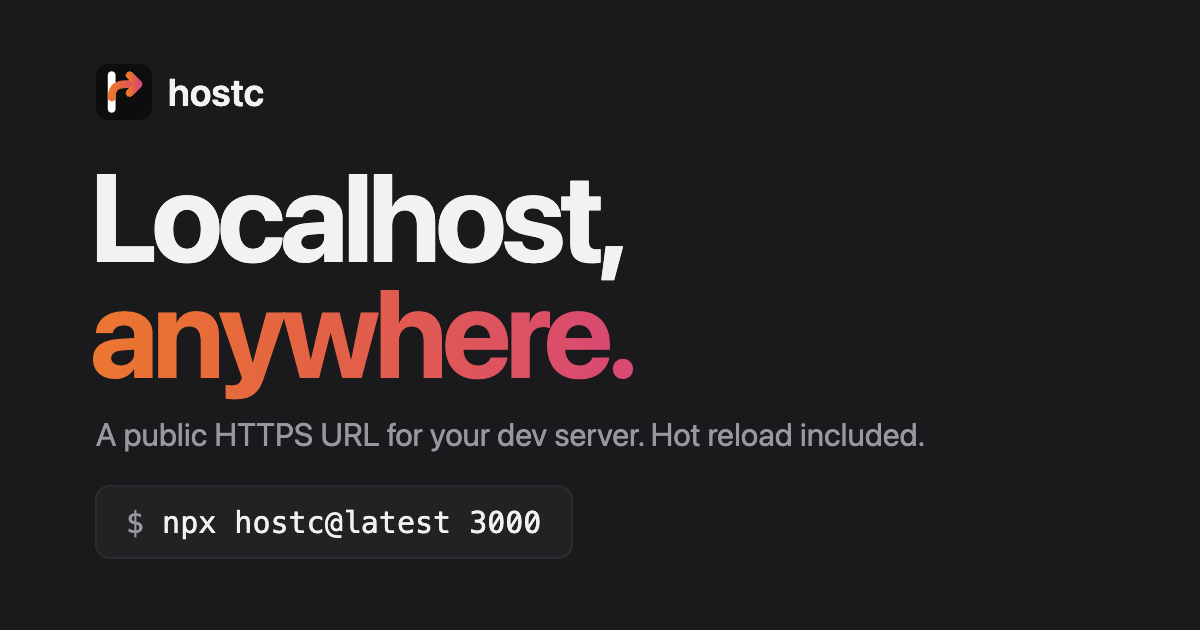
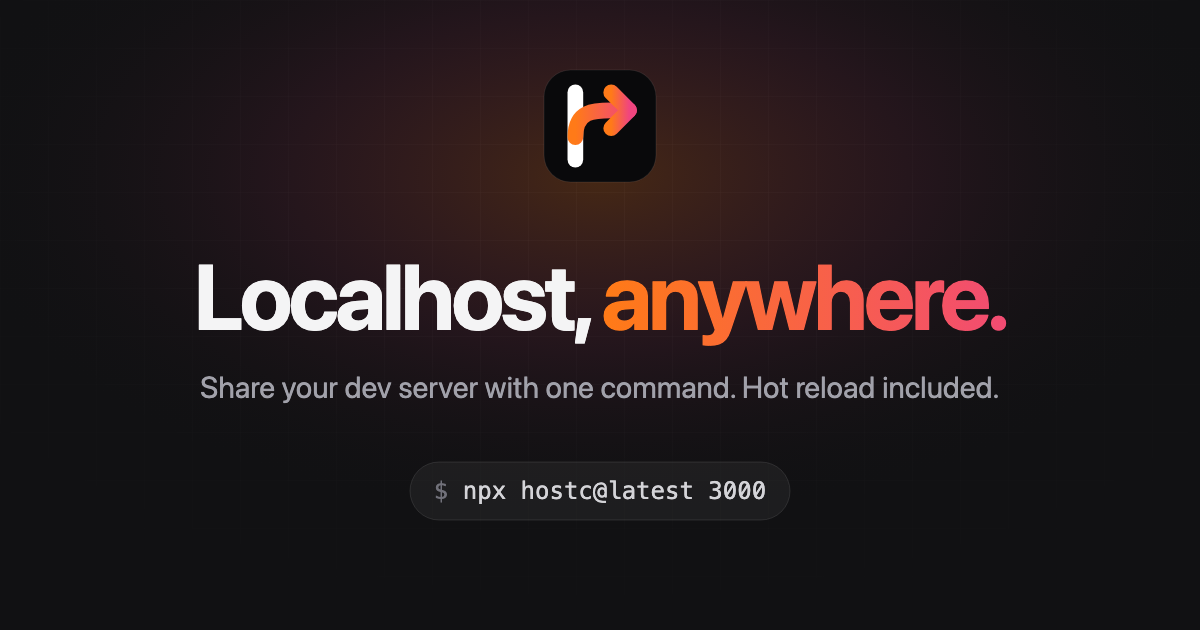
Use the centered design for the social card

diff --git a/apps/web/public/index.html b/apps/web/public/index.html
@@ -22,7 +22,10 @@
 		<meta property="og:image" content="https://hostc.dev/og-image.png" />
 		<meta property="og:image:width" content="1200" />
 		<meta property="og:image:height" content="630" />
-		<meta property="og:image:alt" content="hostc: Localhost, anywhere. npx hostc@latest 3000" />
+		<meta
+			property="og:image:alt"
+			content="hostc: Localhost, anywhere. Share your dev server with one command. Hot reload included."
+		/>
 		<meta name="twitter:card" content="summary_large_image" />
 		<link rel="icon" href="/favicon.ico" sizes="32x32" />
 		<link rel="icon" href="/favicon.svg" type="image/svg+xml" />

diff --git a/apps/web/AGENTS.md b/apps/web/AGENTS.md
@@ -14,5 +14,10 @@ component library, no build step, no JavaScript, no web fonts.
 - `style.css` holds every color as a variable, with a `prefers-color-scheme: dark` block; check both
   schemes and a 390px-wide phone after changes.
 - Every statement about hostc must match the code; check the server, client and CLI before writing it.
+- The social card `og-image.png` (1200×630) is `og-image.svg` rendered by Chrome, which has the
+  system font the SVG names:
+  `"/Applications/Google Chrome.app/Contents/MacOS/Google Chrome" --headless=new --user-data-dir=/tmp/og-profile --hide-scrollbars --window-size=1200,630 --screenshot=og-image.png "file://$PWD/og-image.svg"`
+  (it may not exit; stop it once the file exists). GitHub's social preview wants 1280×640: widen the
+  `viewBox` and the background rectangles instead of padding the PNG, or the glow shows a seam.
 - `llms.txt` is the guide for coding agents; keep it in step with the CLI's behaviour and messages.
 - Deploy: `WEB_DOMAIN=hostc.dev pnpm deploy:web` from the repository root.
